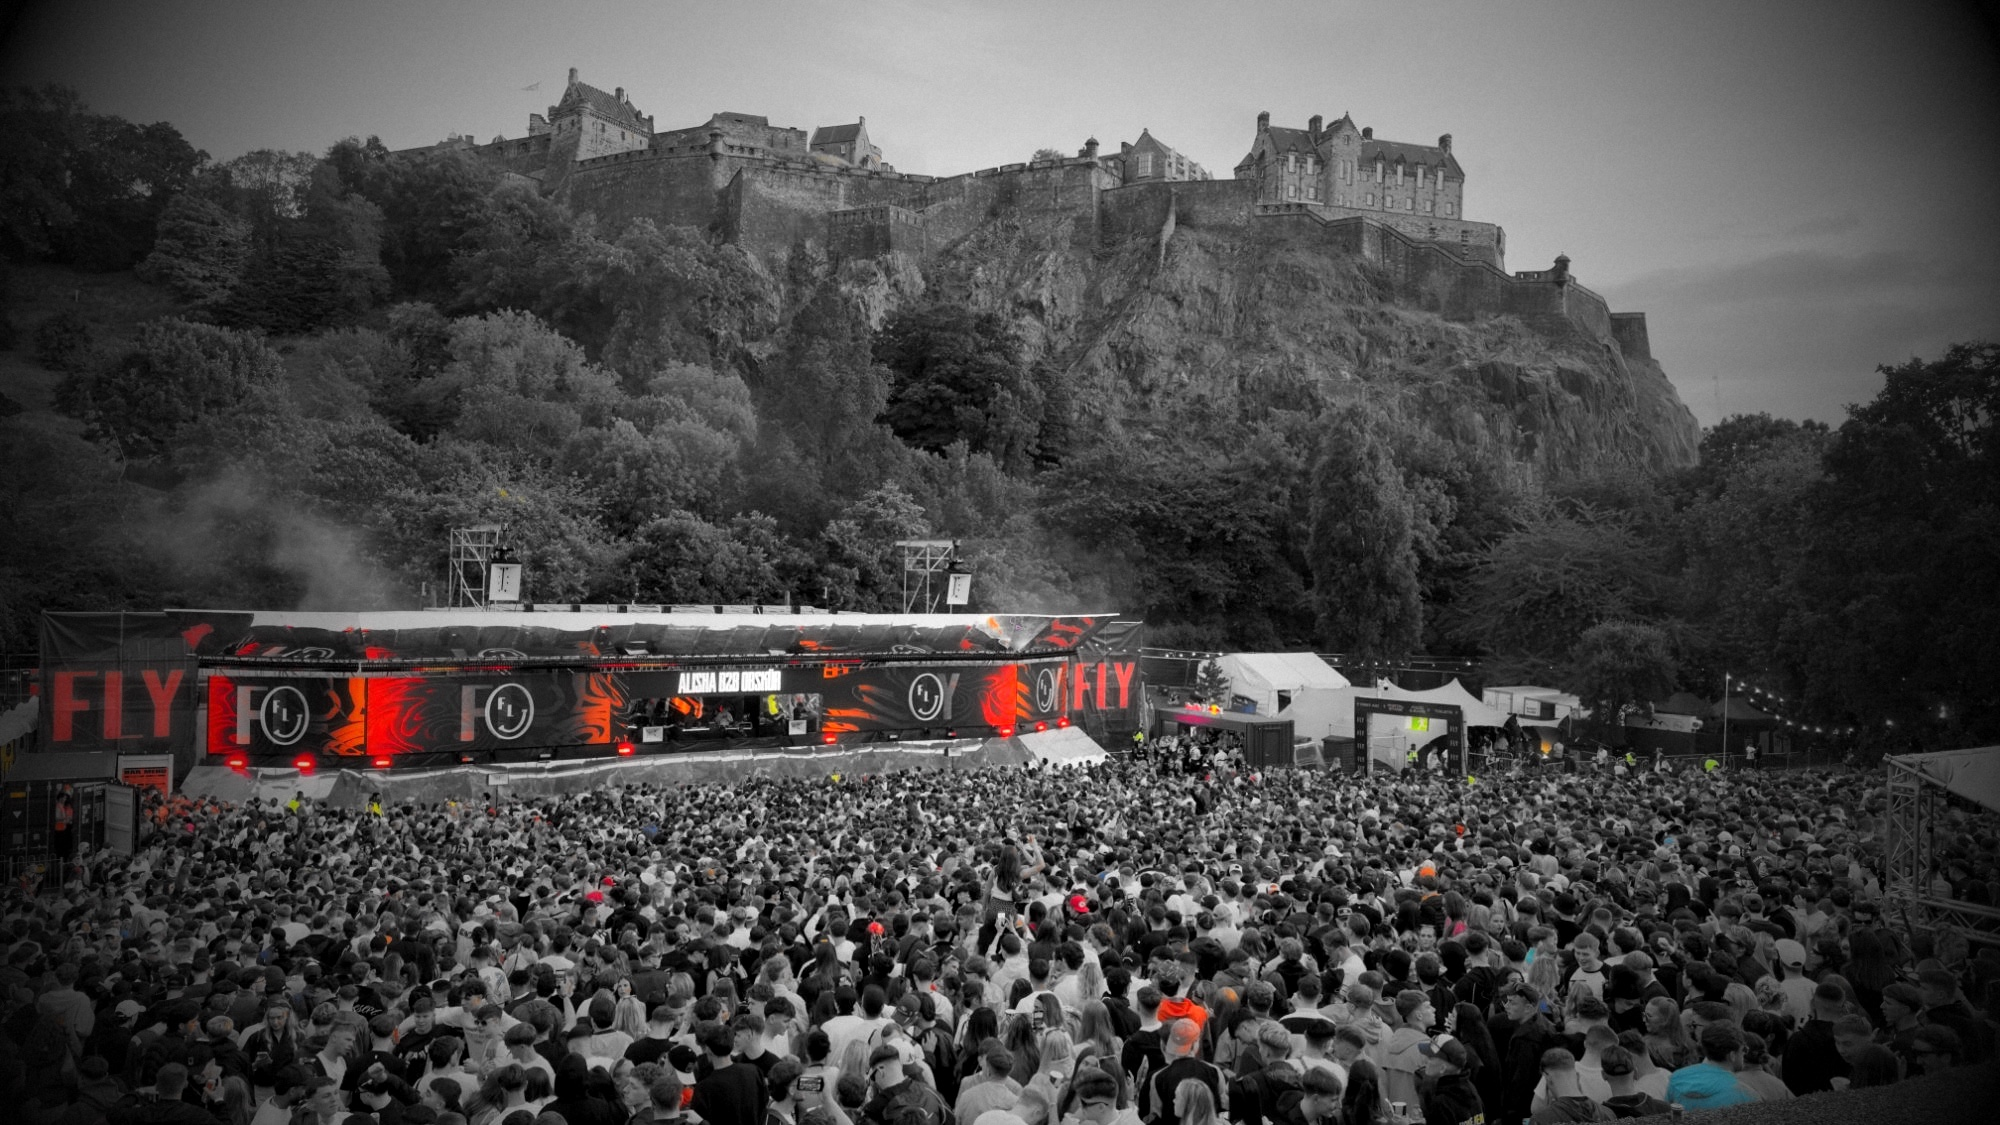
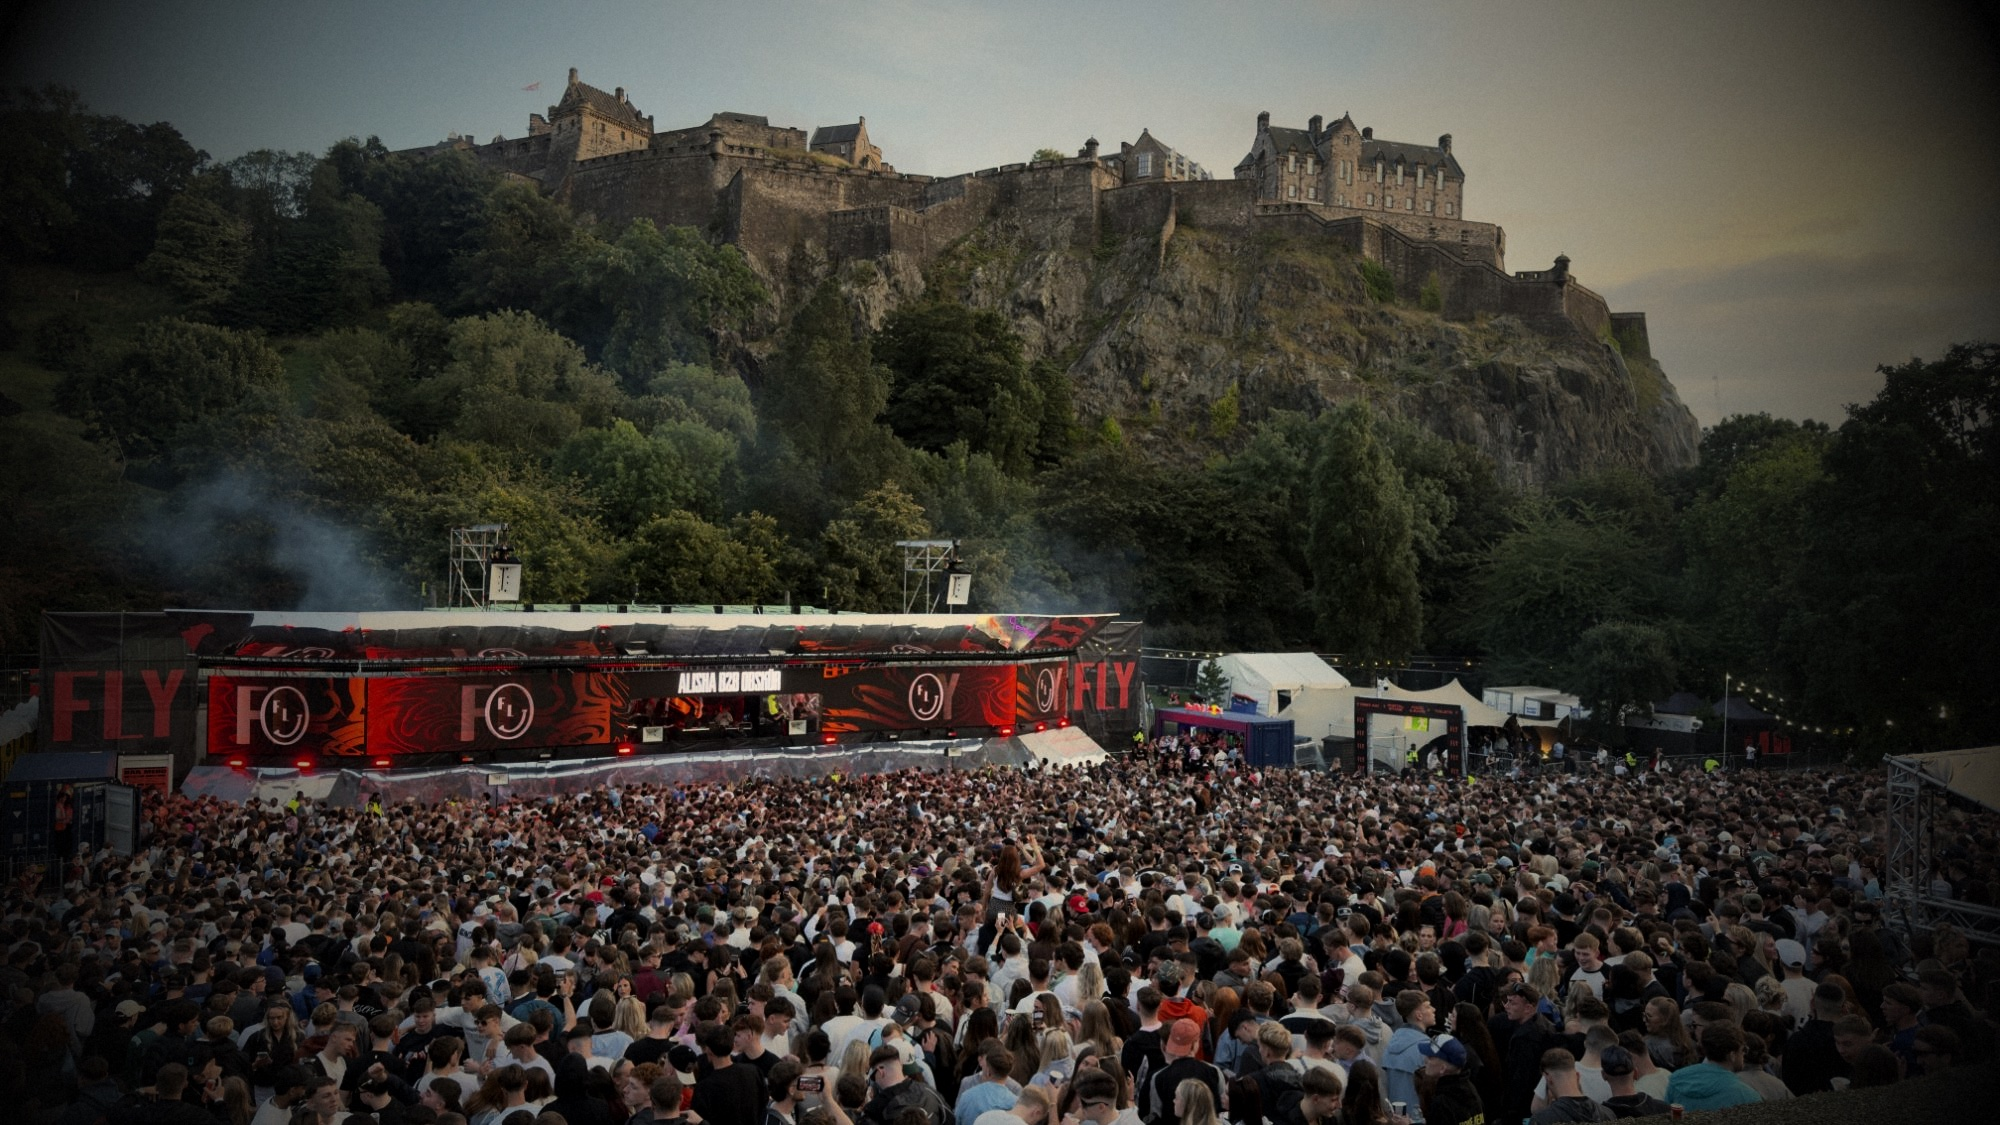
Edinburgh day into night: colour, one shared grade, night shot lined up with the day shot, smoother fade

diff --git a/tools/event-images/grade.swift b/tools/event-images/grade.swift
@@ -1,0 +1,25 @@
+// One shared colour grade so different photos sit together: gentle contrast, slightly muted colour,
+// a cool tint in the shadows, warm highlights, matched vignette and grain.
+//   swift grade.swift in.jpg out.jpg exposure width
+import AppKit; import CoreImage; import CoreImage.CIFilterBuiltins
+let a = CommandLine.arguments
+var img = CIImage(contentsOf: URL(fileURLWithPath: a[1]), options: [.applyOrientationProperty: true])!
+let ext = img.extent
+let ev = CIFilter.exposureAdjust(); ev.inputImage = img; ev.ev = Float(a[3])!; img = ev.outputImage!
+let cc = CIFilter.colorControls(); cc.inputImage = img; cc.saturation = 0.82; cc.contrast = 1.1; img = cc.outputImage!
+// split tone: shadows towards deep blue, highlights towards warm
+let mono = CIFilter.colorMonochrome(); mono.inputImage = img; mono.color = CIColor(red: 0.16, green: 0.26, blue: 0.40); mono.intensity = 1
+let soft = CIFilter.softLightBlendMode(); soft.inputImage = mono.outputImage!; soft.backgroundImage = img
+let mix = CIFilter.dissolveTransition(); mix.inputImage = soft.outputImage!; mix.targetImage = img; mix.time = 0.55; img = mix.outputImage!.cropped(to: ext)
+let warm = CIFilter.temperatureAndTint(); warm.inputImage = img; warm.neutral = CIVector(x: 6500, y: 0); warm.targetNeutral = CIVector(x: 6100, y: 0); img = warm.outputImage!
+let vig = CIFilter.vignette(); vig.inputImage = img; vig.intensity = 0.45; vig.radius = Float(ext.width/900); img = vig.outputImage!.cropped(to: ext)
+let n = CIFilter.randomGenerator().outputImage!.cropped(to: ext)
+let g = CIFilter.colorMatrix(); g.inputImage = n; let s: CGFloat = 0.04
+g.rVector = CIVector(x: s, y: 0, z: 0, w: 0); g.gVector = CIVector(x: s, y: 0, z: 0, w: 0); g.bVector = CIVector(x: s, y: 0, z: 0, w: 0); g.biasVector = CIVector(x: -s/2, y: -s/2, z: -s/2, w: 0)
+let gm = CIFilter.colorControls(); gm.inputImage = g.outputImage!; gm.saturation = 0
+let add = CIFilter.additionCompositing(); add.inputImage = gm.outputImage!.applyingGaussianBlur(sigma: 0.45).cropped(to: ext); add.backgroundImage = img; img = add.outputImage!.cropped(to: ext)
+let w = CGFloat(Double(a[4])!); img = img.applyingFilter("CILanczosScaleTransform", parameters: ["inputScale": min(1, w/ext.width)])
+let ctx = CIContext(options: [.workingColorSpace: CGColorSpace(name: CGColorSpace.sRGB)!])
+let cg = ctx.createCGImage(img, from: img.extent)!
+try! NSBitmapImageRep(cgImage: cg).representation(using: .jpeg, properties: [.compressionFactor: 0.86])!.write(to: URL(fileURLWithPath: a[2]))
+print("wrote \(a[2]) \(cg.width)x\(cg.height)")

diff --git a/index.html b/index.html
@@ -165,7 +165,7 @@
 
     <section class="expand" aria-label="FLY Festival, Edinburgh, day into night">
       <div class="sticky">
-        <div class="frame"><img src="assets/photo-edinburgh-day.jpg?v=1" alt="Daytime festival crowd in Princes Street Gardens under Edinburgh Castle" width="2000" height="1125" loading="lazy"><img class="night" src="assets/photo-edinburgh-night.jpg?v=1" alt="The same stage at night, the castle lit and the LED red and white" width="2000" height="1125" loading="lazy"></div>
+        <div class="frame"><img src="assets/photo-edinburgh-day.jpg?v=2" alt="Daytime festival crowd in Princes Street Gardens under Edinburgh Castle" width="2000" height="1125" loading="lazy"><img class="night" src="assets/photo-edinburgh-night.jpg?v=2" alt="The same stage at night, the castle lit and the LED red and white" width="2000" height="1125" loading="lazy"></div>
         <div class="caption"><p class="kicker">Edinburgh · FLY Festival 2026</p><h2>Day into <span class="soft">night.</span></h2></div>
       </div>
     </section>

diff --git a/assets/site.js b/assets/site.js
@@ -70,7 +70,7 @@
       const p = progress(stage), e = 1 - Math.pow(1 - clamp(p / 0.7), 3);
       stage.style.setProperty('--grow', e.toFixed(4));
       stage.style.setProperty('--caption', clamp((p - 0.55) / 0.3).toFixed(3));
-      stage.querySelector('.frame').style.setProperty('--night', clamp((p - 0.3) / 0.35).toFixed(3));
+      stage.querySelector('.frame').style.setProperty('--night', (n => n * n * (3 - 2 * n))(clamp((p - 0.15) / 0.55)).toFixed(3));
     }
     for (const { el, words: ws } of scenes) {
       const r = el.getBoundingClientRect();

diff --git a/assets/site.css b/assets/site.css
@@ -224,6 +224,7 @@ footer nav { display: flex; gap: 22px; }
 .expand .frame { --night: 0; }
 .expand .frame img { position: absolute; inset: 0; }
 .expand .frame img.night { opacity: var(--night); }
+.expand .frame img { filter: brightness(calc(1 - .35 * var(--caption))); }
 @media (prefers-reduced-motion: reduce) { .expand .frame img.night { opacity: 0; } }
 
 /* Tape colour accents */
